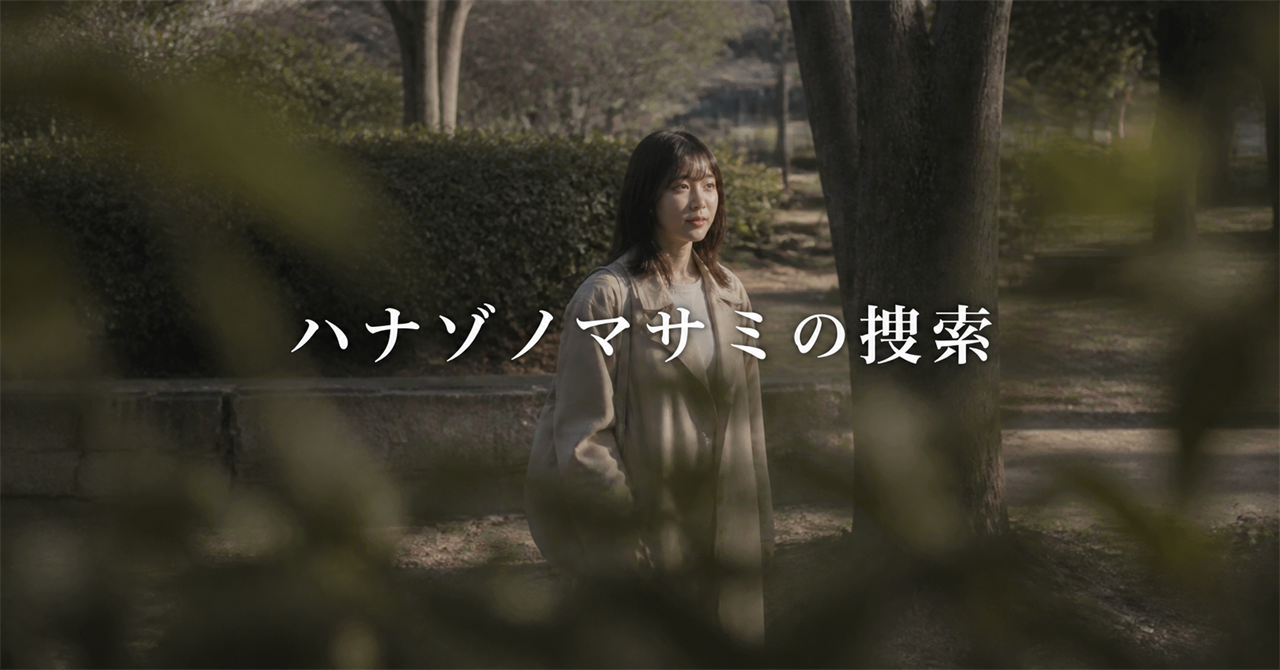
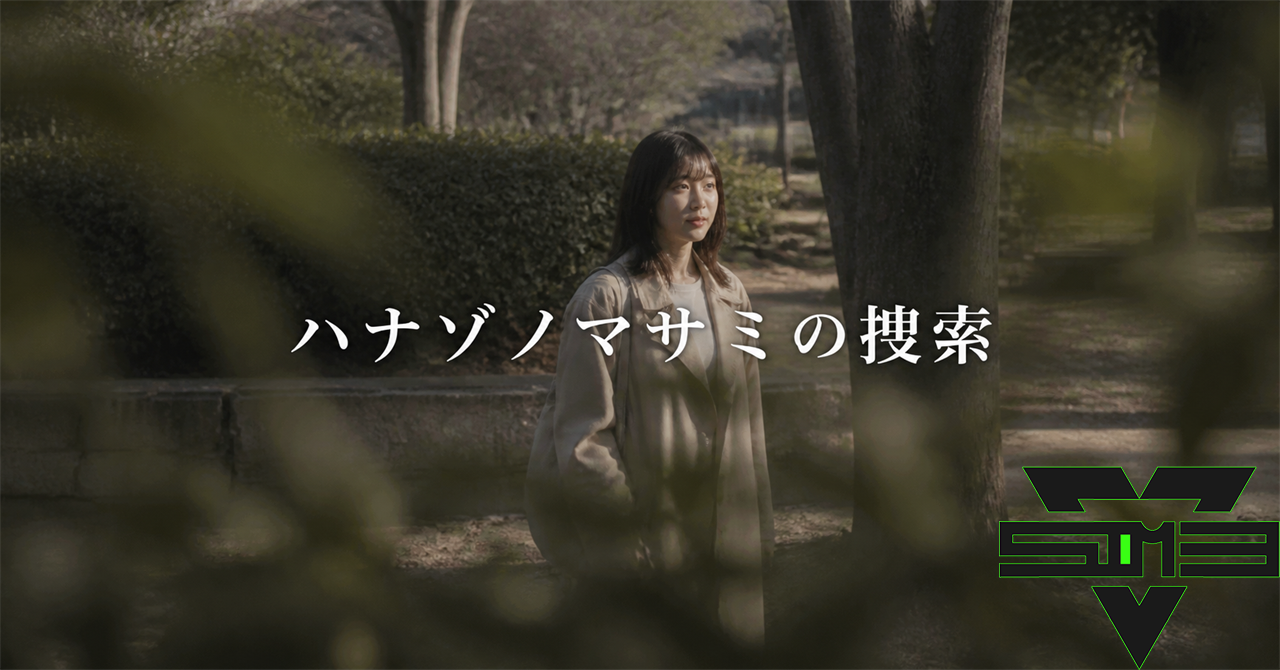
ver1.8

Changed region(s): [[0.7812, 0.6866, 1.0, 1.0]]

diff --git a/public/mail.html b/public/mail.html
@@ -1253,17 +1253,17 @@
       },
       {
         outgoing: '情報は持っていません。ただ、インターネットで情報を調べることには自信があります。よければ、捜索に協力させてください。',
-        reply: 'ありがとう。本当に助かります。\n\n最後に彼女の動きが確認できたのは8月7日の夜です。SNSに「今日は少し疲れた。早く寝ようかな」と書いたあと、投稿だけでなく、返信やほかの人への反応もすべて止まりました。彼女は日記代わりにほとんど毎晩何か書いていて、休むときは先に一言知らせる人だったんです。それがもう一週間以上、メッセージを何度送っても既読になりません。\n\n翌日から何度か家まで様子を見に行きましたが、夜になっても部屋の明かりはつきませんでした。僕は合鍵を持っていないので、中の様子までは確認できていません。\n\n僕たちの関係はあまり周りには話していませんでした。彼女がSNSで、日記のように僕たちのことを細々と発信する程度だったんです。共通の知り合いも、ご家族の連絡先も分からず、今は頼れる人がいなくて……。',
+        reply: 'ありがとう。本当に助かります。\n\n8月7日の夜を境に、彼女と連絡が取れなくなりました。初めは忙しいだけだと思っていたのですが、日記のように続けていたSNSの更新も止まったままです。しばらく休むときには、いつも一言知らせる人でした。\n\n自宅を訪ね、心当たりのある場所も探しましたが、会うことはできませんでした。警察にも相談していますが、今のところ確かな手がかりはありません。\n\n彼女は何気ない出来事をSNSなどに残していました。投稿の中に、本人にしか分からない手がかりがあるかもしれません。力を貸してもらえると助かります。',
         mobileLabel: '捜索への協力を申し出る'
       },
       {
         outgoing: '分かりました。最後の投稿や、普段使っていたアカウントは残っていますか？',
-        reply: 'はい。アカウントは残っています。写真や日常のことをよく投稿していました。僕のことも、投稿の中では「Mくん」と呼んでいました。\n\nただ、僕はこういうものに詳しくなくて、投稿を一つずつ見ても、どれが手がかりになるのか分からないんです。',
+        reply: 'はい。アカウントは残っています。写真や日常のことをよく投稿していました。\n\nただ、記録が多く、僕一人では大切な情報を見落としてしまうかもしれません。最近のものだけでなく、できれば古い投稿まで確認してもらえませんか？',
         mobileLabel: '残っているアカウントについて聞く'
       },
       {
         outgoing: 'そのSNSを確認したいです。アカウントのURLを送ってもらえますか？',
-        reply: 'もちろんです。下のURLです。\n\n彼女はブログも書いていて、前にSNSのどこかで紹介していた気がします。でも、URLを保存していなくて……。もしブログも見つけたら、そのURLをこのメールに送ってもらえませんか？',
+        reply: 'もちろんです。下のURLです。\n\nアカウントを移したころの投稿に、以前の記録について書かれていたと思います。SNS以外の記録やブログへの案内が見つかったら、本人のものか確認したいので、そのURLをこのメールに送ってもらえませんか？',
         link: 'hana-sns.html',
         linkLabel: 'HANAのSNS',
         mobileLabel: 'SNSのURLを送ってもらう'
@@ -1314,16 +1314,16 @@
     const finaleStartedStorageKey = 'hanazono-mail-finale-started-v1';
     const expectedBlogFile = 'hana-blog.html';
     const expectedHiddenBlogFile = 'hana-blog-hidden.html';
-    const blogConfirmationReply = '確認します。\n\n……これで間違いないです。彼女のブログです。ブログの中に、行方につながる情報があるかもしれません。僕も確認してみます。何か見つけ次第、ここで連絡しましょう。';
+    const blogConfirmationReply = '確認します。\n\nSNSと同じ写真や記録があります。彼女のブログで間違いなさそうです。ブログの中に、行方につながる情報があるかもしれません。僕も確認してみます。何か見つけ次第、ここで連絡しましょう。';
     const hiddenBlogLeadReply = 'このブログを読んでいて気づいたのですが、どうやら表にはない裏のブログが隠されているみたいです。\n\n僕も少し探してみます。あなたも見つけたら、そのURLをここに送ってください。';
     const hiddenBlogConfirmationReply = '確認しました。表のブログからは見えないようにしていた記録なんですね。\n\n僕も読み進めてみます。彼女がいなくなる前に何を考えていたのか、分かったことがあれば教えてください。';
     const privateProgressPrompt = '捜索の進捗はどうですか？　何か分かったことがあれば教えてください。';
     const foundReply = '彼女を見つけました！もうこんな事が起きないようにきちんと二人で話し合います！ありがとうございました！';
     const foundImage = 'images/hana-found.png';
     const wrongUrlReplies = [
-      'これではないような……。彼女が書いていたブログとは雰囲気が違います。',
-      '確認しましたが、彼女のブログではありませんね……。ほかに心当たりはありませんか？',
-      'すみません。このURLには見覚えがありません。もう少し探してもらえると助かります。',
+      'これではないような……。SNSの投稿と結びつく情報が見当たりません。',
+      '確認しましたが、彼女のブログだと判断できるものがありませんね……。ほかに心当たりはありませんか？',
+      'すみません。このURLでは本人のものか確認できませんでした。もう少し探してもらえると助かります。',
       '開いてみましたが、探しているブログとは違うと思います。SNSの投稿に別のリンクはありませんでしたか？'
     ];
     const wrongHiddenBlogUrlReplies = [

diff --git a/public/index.html b/public/index.html
@@ -12,6 +12,21 @@
   <meta charset="UTF-8">
   <meta name="viewport" content="width=device-width, initial-scale=1.0">
   <meta name="description" content="行方がわからなくなった大切な人を探しています。些細なことでも構いません。情報をお寄せください。">
+  <link rel="canonical" href="https://arg-disappearance.pages.dev/">
+  <meta property="og:type" content="website">
+  <meta property="og:locale" content="ja_JP">
+  <meta property="og:site_name" content="ハナゾノマサミの捜索">
+  <meta property="og:title" content="ハナゾノマサミの捜索｜Web探索型ARG">
+  <meta property="og:description" content="失踪した彼女を探してください。SNSやブログに残された手がかりをたどる、Web探索型ARGです。">
+  <meta property="og:url" content="https://arg-disappearance.pages.dev/">
+  <meta property="og:image" content="https://arg-disappearance.pages.dev/images/hanazono-masami-thumbnail-v2.png">
+  <meta property="og:image:width" content="1280">
+  <meta property="og:image:height" content="670">
+  <meta property="og:image:alt" content="ハナゾノマサミの捜索">
+  <meta name="twitter:card" content="summary_large_image">
+  <meta name="twitter:title" content="ハナゾノマサミの捜索｜Web探索型ARG">
+  <meta name="twitter:description" content="失踪した彼女を探してください。SNSやブログに残された手がかりをたどる、Web探索型ARGです。">
+  <meta name="twitter:image" content="https://arg-disappearance.pages.dev/images/hanazono-masami-thumbnail-v2.png">
   <link rel="icon" type="image/svg+xml" href="images/favicon-search.svg">
   <title>失踪した彼女を探してください。</title>
   <style>
@@ -653,7 +668,7 @@
             </div>
             <div class="facts-row">
               <dt>好きなこと</dt>
-              <dd>カフェ巡り、写真、小旅行</dd>
+              <dd>カフェ巡り、写真、季節の花</dd>
             </div>
           </dl>
           <p class="last-seen"><strong>連絡が途絶えた時期：</strong><br>2026年8月7日（金）の夜ごろ<br><br>それ以降、連絡を取ろうとしていますが返事がありません。普段続けていたSNSの更新も止まっています。</p>
@@ -665,7 +680,7 @@
         <p>8月7日の夜を境に、彼女と連絡が取れなくなりました。初めは忙しいだけだと思っていましたが、日記のように続けていたSNSの更新も止まったままです。しばらく更新を休むときには一言知らせる人だったので、何もないまま長く途絶えていることが気になっています。</p>
         <p>彼女の自宅を訪ね、心当たりのある場所も探しましたが、会うことはできませんでした。連絡も繰り返していますが、今も返事はありません。</p>
         <p>警察にも相談しています。ただ、今のところ確かな手がかりはなく、僕にできる範囲でも探し続けています。</p>
-        <p>彼女はカフェや小旅行が好きで、何気ない出来事をSNSやブログに残していました。公開されている投稿を僕も読み返していますが、記録が多く、一人では大切な情報を見落としてしまうかもしれません。そのため、このページを作りました。</p>
+        <p>彼女はカフェや写真が好きで、何気ない出来事をSNSやブログに残していました。彼女が残した投稿を僕も読み返していますが、記録が多く、一人では大切な情報を見落としてしまうかもしれません。そのため、このページを作りました。</p>
         <div class="handwritten">もし、彼女が残した投稿の中で気になるものを見つけた方や、最近のことをご存じの方がいましたら、どうか教えてください。間違いでも構いません。彼女が今どこにいるのか、それだけでも知りたいです。</div>
       </section>
 
